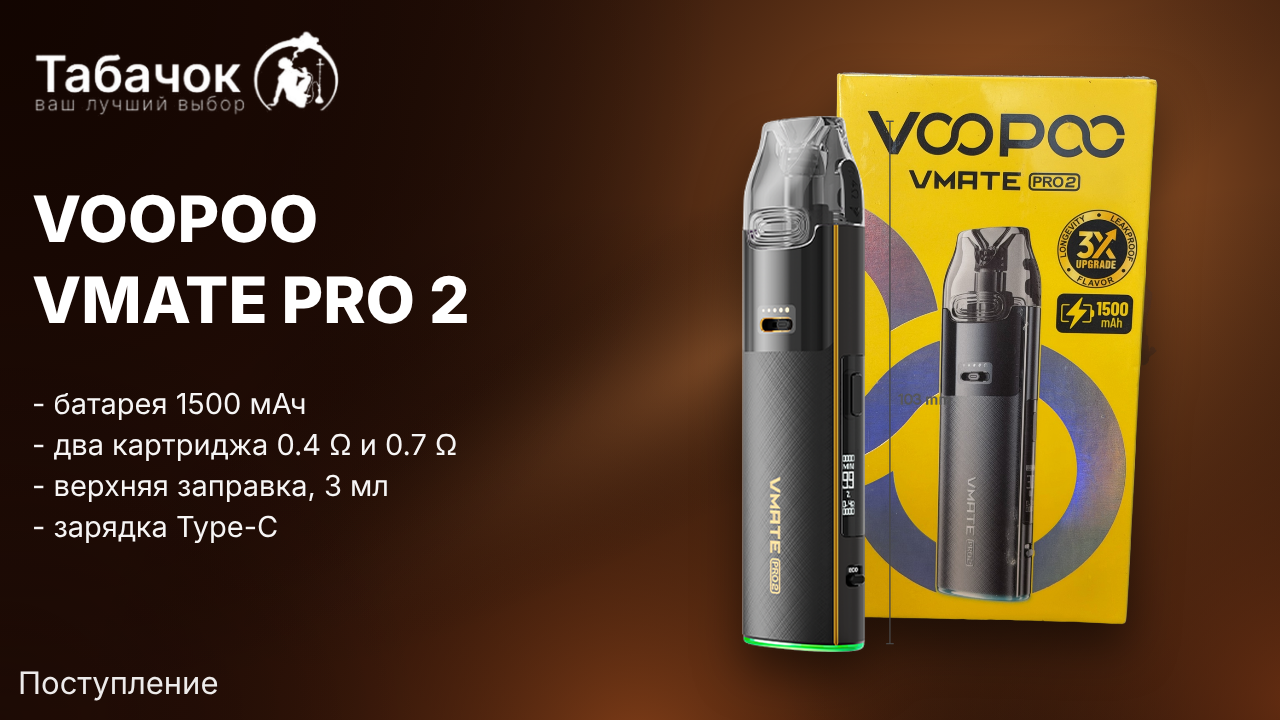
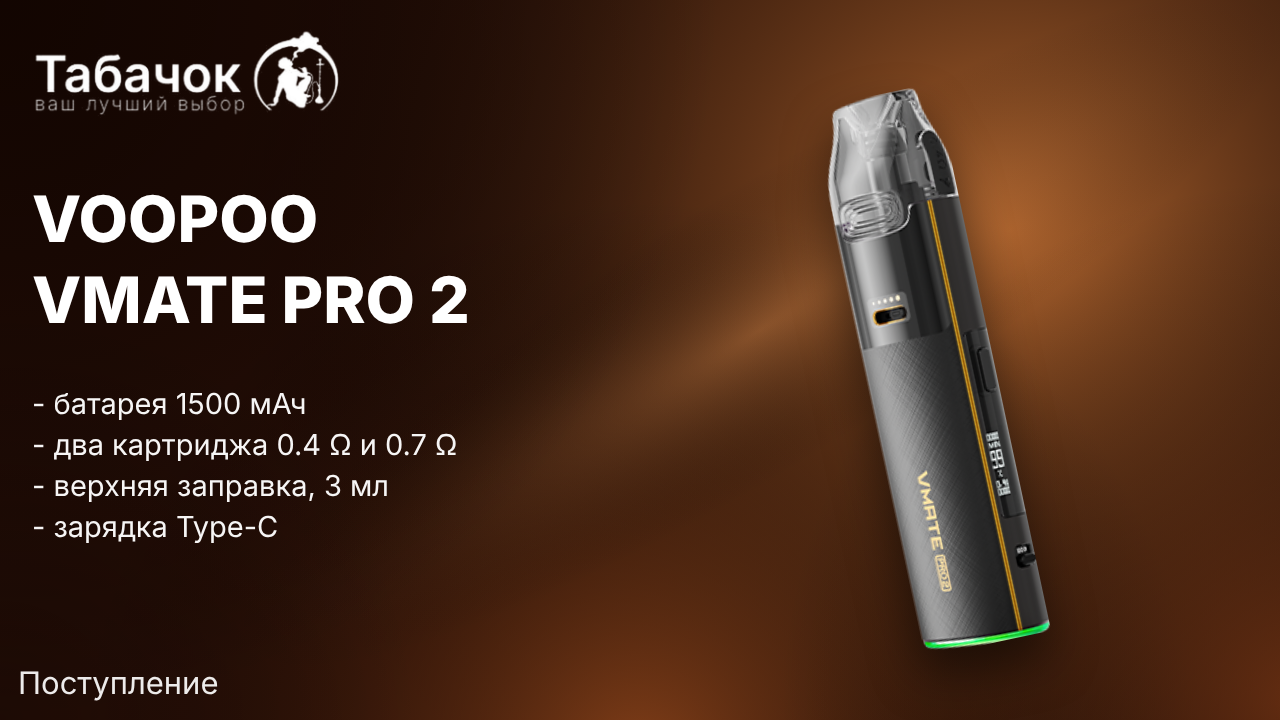
VMATE PRO 2 и i3: только официальные фото без фона
Claude-Session: https://claude.ai/code/session_01BAoifNzmErNEem9gzjK5Kd

Changed region(s): [[0.5625, 0.0917, 0.9062, 0.9472]]

diff --git a/tools/render-cards.js b/tools/render-cards.js
@@ -4,11 +4,11 @@ const P=[
   body:'- яркий экран: заряд и жидкость\n- режимы SOFT и BOOST\n- 22 мл жидкости\n- батарея 650 мАч',
   desc:'Одноразовая система IZI M: до 22 000 затяжек, большой цветной экран с уровнем заряда и жидкости, режимы SOFT и BOOST.',
   flavors:'Мята с двойным льдом',tags:'#izi #одноразка'},
- {id:'voopoo-vmate-pro-2',img:'pro2.png',scale:116,cx:950,cy:362,title:'VOOPOO\nVMATE PRO 2',
+ {id:'voopoo-vmate-pro-2',img:'pro2.png',scale:112,cx:930,cy:370,rot:-12,title:'VOOPOO\nVMATE PRO 2',
   body:'- батарея 1500 мАч\n- два картриджа 0.4 Ω и 0.7 Ω\n- верхняя заправка, 3 мл\n- зарядка Type-C',
   desc:'Многоразовая под-система VOOPOO VMATE PRO 2. В комплекте сразу два картриджа с верхней заправкой: 0.4 Ω и 0.7 Ω по 3 мл. Улучшены вкус, герметичность и ресурс (3X Upgrade).',
   flavors:'',tags:'#voopoo #vmate #подсистема'},
- {id:'voopoo-vmate-i3',img:'i3.png',scale:112,cx:950,cy:355,title:'VOOPOO\nVMATE i3',
+ {id:'voopoo-vmate-i3',img:'i3.png',scale:112,cx:930,cy:370,rot:-12,title:'VOOPOO\nVMATE i3',
   body:'- батарея 1500 мАч\n- картридж 0.7 Ω, 3 мл\n- верхняя заправка\n- подходят картриджи VMATE',
   desc:'Компактная под-система VOOPOO VMATE i3 в карбоновом корпусе. Картридж 0.7 Ω на 3 мл с верхней заправкой, подходят все картриджи семейства VMATE.',
   flavors:'',tags:'#voopoo #vmate #подсистема'}];
@@ -20,6 +20,7 @@ for(const it of P){
  await p.fill('#pDesc',it.desc);await p.fill('#pFlavors',it.flavors);await p.fill('#pTags',it.tags);await p.fill('#pPrice','');await p.fill('#pWhere','');
  await p.setInputFiles('#fFile',it.img);await p.waitForTimeout(800);
  await p.evaluate(s=>{const e=document.getElementById('sScale');e.value=s;e.dispatchEvent(new Event('input'));},it.scale);
+ if(it.rot)await p.evaluate(r=>{const e=document.getElementById('sRot');e.value=r;e.dispatchEvent(new Event('input'));},it.rot);
  // move product: drag from center
  const box=await p.locator('#card').boundingBox();const k=box.width/1280;
  await p.mouse.move(box.x+900*k,box.y+400*k);await p.mouse.down();await p.mouse.move(box.x+it.cx*k,box.y+it.cy*k,{steps:5});await p.mouse.up();

diff --git a/CLAUDE.md b/CLAUDE.md
@@ -2,9 +2,9 @@
 
 ## Как делать пост с товаром
 1. Пользователь присылает свои фото товара (часто в руке) и обратную сторону упаковки — оттуда берём характеристики.
-2. **Фото для карточки:** ищем более красивые фото того же товара в интернете, в первую очередь официальные рендеры производителя того же цвета/вкуса, что на фото пользователя (пример: www.voopoo.com → картинки на sen.voopoo.com.cn). Если хост закрыт — добавить его в окружение через update_environment.
-3. Фон убираем сами: `rembg` (модель `isnet-general-use`), затем порог альфы и оставляем крупнейший объект; остатки (пальцы, надписи) вырезаем маской-полигоном.
-4. Композиция: устройство (официальный рендер) впереди слева, коробка с фото пользователя без фона позади справа — так понравилось пользователю (IZI M, VMATE).
+2. **Фото для карточки — только из интернета, фото пользователя на карточку НЕ ставим** (они нужны лишь чтобы понять товар, цвет и характеристики). Лучший вариант — официальные PNG производителя уже без фона (пример: www.voopoo.com, картинки на sen.voopoo.com.cn, файлы `uploads/.../<товар>.png` 480×480). Если хост закрыт — добавить его в окружение через update_environment.
+3. Вырез должен быть плавным и качественным. Если есть только фото на фоне — `rembg` (`isnet-general-use`) и проверить края крупно; если вырез грязный (как у красного VMATE i3 на красном фоне) — взять другой цвет того же товара, у которого есть чистое фото.
+4. Композиция: устройство справа, слегка наклонено (около −12°), с тенью; для набора (устройство + коробка) — только если обе картинки из интернета и чистые.
 5. Карточку рендерим через `index.html` скриптом `tools/render-cards.js` (Playwright): заголовок 2 строки, 4 пункта, подпись «Поступление».
 6. Текст поста — генератор в `index.html`; в заголовке поста без « · », например `**VOOPOO VMATE i3**`. Цены/вкусы не выдумывать — спрашивать.
 7. Сохраняем в `posts/ГГГГ-ММ-ДД/`: `<товар>.png`, `<товар>.txt`, `photos/<товар>.png` (вырезка), коммит в `main`.
